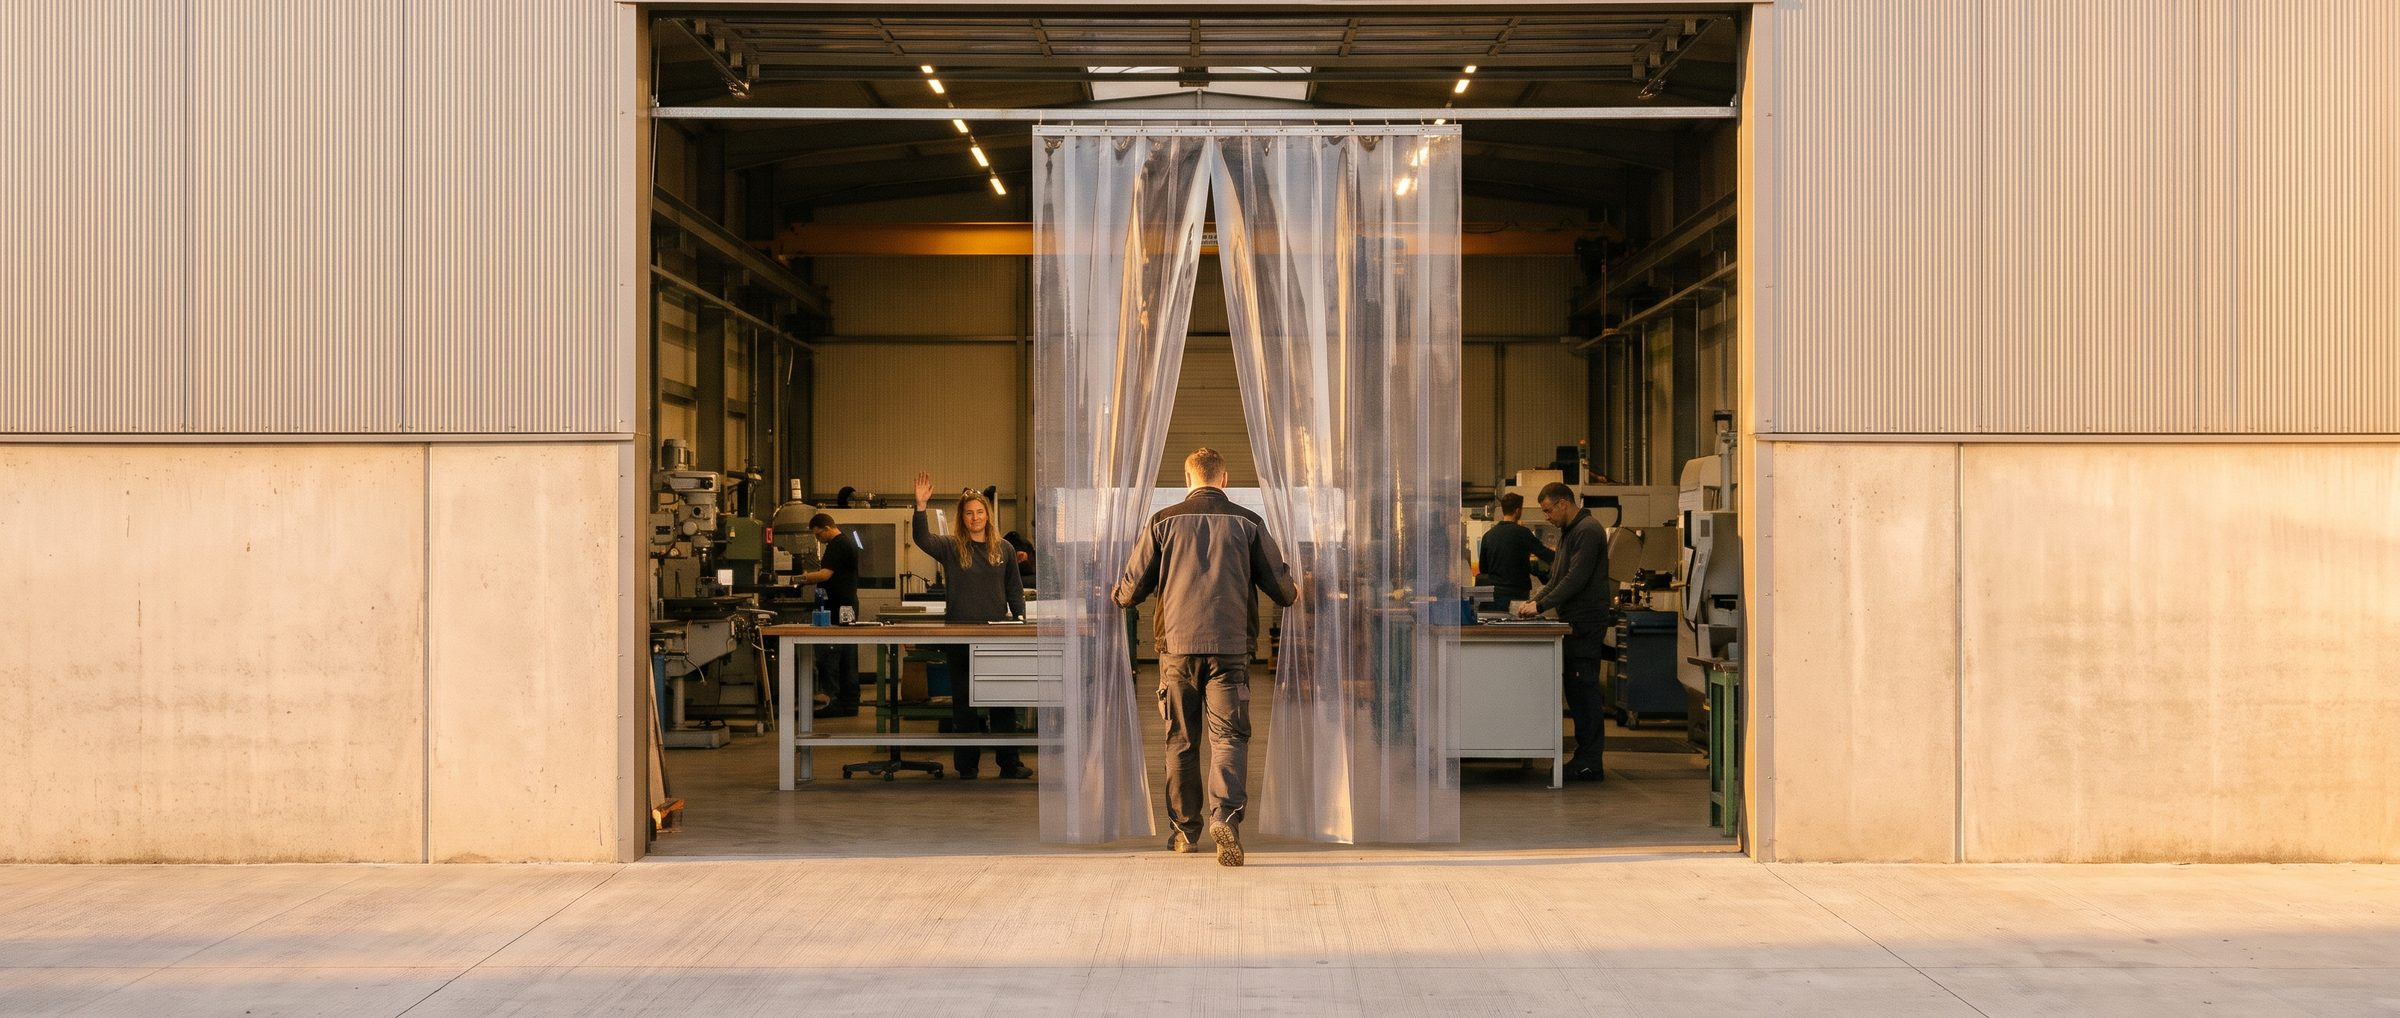
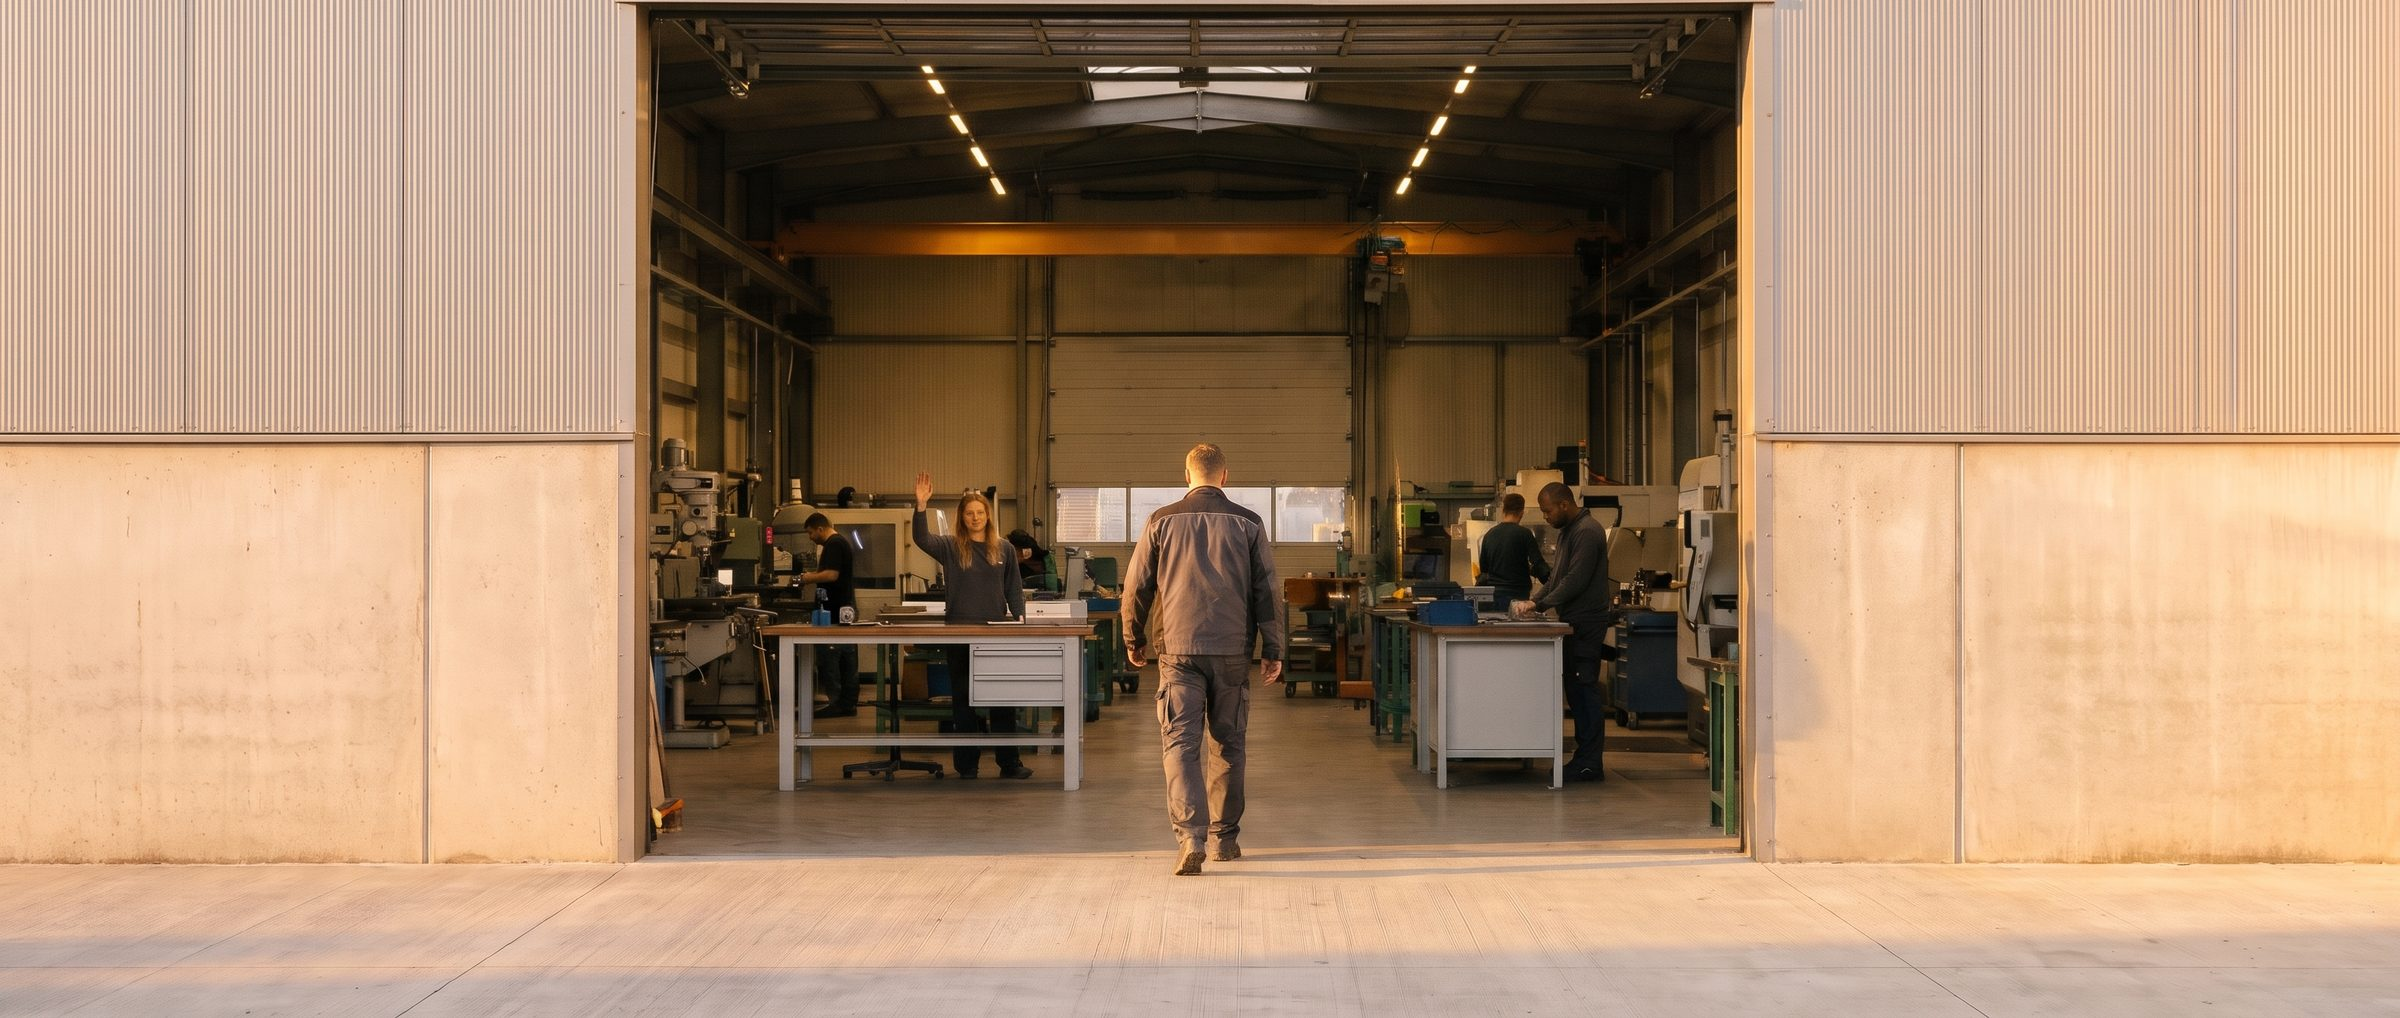
fix: open up the hero entrance and vary the team a little
The strip curtain only covered the middle of the hall entrance and read as a prop, so it is gone and
the worker walks straight into the open hall. One colleague at the right workbench now has a darker
skin tone, and a sign with invented lettering on the crane beam is painted out.

The imagery guide follows: prompt v2 drops the curtain, and casting allows one colleague with a
visibly different skin tone per image.

Claude-Session: https://claude.ai/code/session_01GpDko3L9HBxGPW7JyWFRKh

Changed region(s): [[0.25, 0.0914, 0.7812, 0.8831], [0.0938, 0.3959, 0.125, 0.4263]]

diff --git a/docs/imagery.md b/docs/imagery.md
@@ -10,9 +10,9 @@ Two photographic series carry the brand. Both are AI-generated.
 Germany's workforce as it actually looks in a typical Mittelstand company, not a stock-photo default and not a checklist.
 
 - **Gender:** a natural mix; never only men.
-- **Origin:** mostly white, the way a typical Mittelstand team in Germany looks. Many images show no one of a visibly different background; when someone does appear, it is one person, never several in one image. Diversity must never be the subject of the picture.
+- **Origin:** mostly white, the way a typical Mittelstand team in Germany looks, with a little visible variety in skin tone: usually one colleague per image, never several. Diversity must never be the subject of the picture.
 - **Age:** apprentices to people near retirement.
-- **Prompting:** describe the team plainly ("colleagues, a typical German team"). Do not name ethnicities or religious dress at all; the model already mixes more than reality, so the prompt should not push it further. Re-roll images that read as staged or as a diversity checklist.
+- **Prompting:** describe the team plainly ("colleagues, a typical German team"). Do not name ethnicities or religious dress. If an image comes out all white, give one background colleague a darker skin tone in an edit pass; never more. Re-roll images that read as staged or as a diversity checklist.
 
 ## Palette
 
@@ -28,7 +28,7 @@ Upbeat, never lonely. First light (blue dawn outside, warm light just switched o
 ## Threshold rules
 
 1. **Sunrise.** Low, warm sunlight; the lit side glows golden. Not blue hour.
-2. **One threshold, one person, mid-step.** A physical threshold (strip curtain, door, gate). The light changes at the threshold.
+2. **One threshold, one person, mid-step.** A physical threshold (an open hall entrance, a doorway, a gate). The light changes at the threshold. Anything hanging in it, like a strip curtain, has to span the whole opening or it reads as a prop.
 3. **Strict symmetry.** Frontal, one-point composition, threshold centered, both halves mirrored. Calm and precise.
 4. **Seen from behind or the side.** Nobody looks at the camera.
 5. **Room for type.** Calm negative space (usually the ground) where headlines sit without covering the person.
@@ -58,7 +58,7 @@ All in `src/assets/imagery/`, resized with Lanczos and saved as JPEG q82.
 
 | File | Use | Width |
 | ---- | --- | ----- |
-| `threshold-metalworks.jpg` | Hero: worker pushing through a strip curtain at sunrise, colleague waving inside (hero prompt v2) | 2400 |
+| `threshold-metalworks.jpg` | Hero: worker walking into an open metalworking hall at sunrise, colleague waving inside (hero prompt v2, then an edit pass for one darker-skinned colleague and a beam sign painted out) | 2400 |
 | `threshold-kontakt.jpg` | Contact: woman walking through the open door of a brick-built office at sunrise (contact prompt v2) | 1600 |
 | `motion-kommunikation.jpg` | Approach card 1: colleagues talking at a workbench | 1200 |
 | `motion-essenz.jpg` | Approach card 2: hands assembling parts | 1200 |
@@ -70,7 +70,7 @@ All in `src/assets/imagery/`, resized with Lanczos and saved as JPEG q82.
 
 ## Hero prompt v2 (warm, for the light theme)
 
-> Strictly frontal, perfectly symmetrical one-point composition, wide 21:9 frame, camera at eye level and a little back, centered on the open entrance of a German mid-sized metalworking hall on a clear morning just after sunrise. The facade is warm light-grey corrugated metal and sandstone-colored concrete, mirrored evenly left and right, catching low golden sunlight. The wide entrance with a transparent PVC strip curtain sits exactly in the center. Inside, the hall is bright with warm white light: workbenches in natural steel and timber, machines in warm grey, a few colleagues already at work, a typical German team of men and women of different ages. One worker in a charcoal work jacket and trousers, seen in three-quarter view from behind, is caught mid-step exactly in the center as he pushes through the curtain, front foot inside the warm light, back foot still on the sunlit forecourt. A female colleague inside raises a hand in greeting. The forecourt in the lower third is clean pale concrete with long soft morning shadows, calm and empty, room for type. No blue surfaces, no blue sky, no blue clothing or machines: the whole image stays in warm greys, sand, steel and gold.
+> Strictly frontal, perfectly symmetrical one-point composition, wide 21:9 frame, camera at eye level and a little back, centered on the open entrance of a German mid-sized metalworking hall on a clear morning just after sunrise. The facade is warm light-grey corrugated metal and sandstone-colored concrete, mirrored evenly left and right, catching low golden sunlight. The wide entrance stands fully open, exactly in the center, with no door, gate or curtain. Inside, the hall is bright with warm white light: workbenches in natural steel and timber, machines in warm grey, a few colleagues already at work, a typical German team of men and women of different ages. One worker in a charcoal work jacket and trousers, seen in three-quarter view from behind, is caught mid-step exactly in the center as he walks through the open entrance into the warm light of the hall. A female colleague inside raises a hand in greeting. The forecourt in the lower third is clean pale concrete with long soft morning shadows, calm and empty, room for type. No blue surfaces, no blue sky, no blue clothing or machines: the whole image stays in warm greys, sand, steel and gold.
 
 Append the style line. Check the result against the casting and palette rules above before shipping.
 
